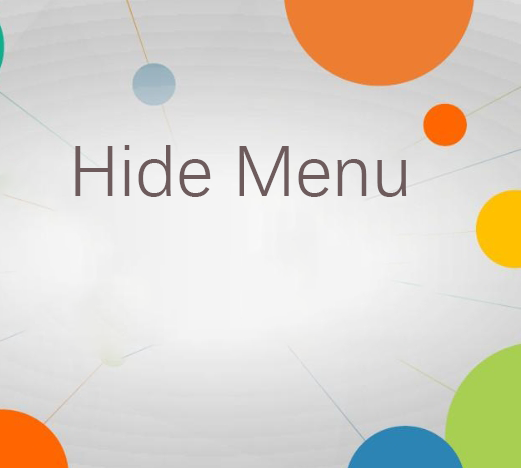
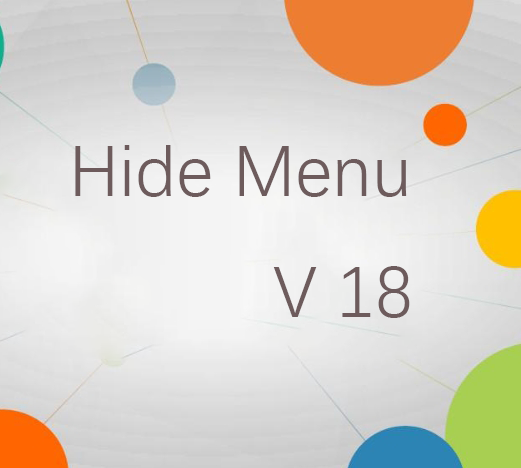
add module

Changed region(s): [[0.6449, 0.5684, 0.7985, 0.688], [0.5221, 0.5684, 0.5835, 0.688], [0.5835, 0.5684, 0.6142, 0.6282]]

diff --git a/user_menus_restriction/static/description/index.html b/user_menus_restriction/static/description/index.html
@@ -34,10 +34,10 @@
                  <p class="mb-0 mt-4"><a href="2.png" target="new"><img src="2.png" style="width:80%" /></a></p>
                 
     
-                 <p class="mb-4 mt-4 h6 mt-4 mb-4 text-dark text-center" style="width:80%;background-color:skyblue; padding:1%;border-radius: 5px;border: 2px solid black;"><b>After the user (demo) logs into the system, they cannot see the hidden menu.</b></p>
+                 <p class="mb-4 mt-4 h6 mt-4 mb-4 text-dark text-center" style="width:80%;background-color:skyblue; padding:1%;border-radius: 5px;border: 2px solid black;"><b>After the user (demo) logs into the system, they cannot see the hidden menu. </b></p>
                  <p class="mb-0"><a href="3.png" target="new"><img src="3.png" style="width:80%" /></a></p>
                 
-                 <p class="mb-4 mt-4 h6 mt-4 text-dark text-center" style="width:80%;background-color:skyblue;padding:1%;border-radius: 5px;border: 2px solid black;"><b>Even if the user knows the URL of the menu, they do not have access to it.</b></p>
+                 <p class="mb-4 mt-4 h6 mt-4 text-dark text-center" style="width:80%;background-color:skyblue;padding:1%;border-radius: 5px;border: 2px solid black;"><b>Even if the user knows the URL of the menu, they do not have access to it. </b></p>
                  <p class="mb-0 mt-4"><a href="4.png" target="new"><img src="4.png" style="width:80%" /></a></p>
                 </ul>
             </div>

diff --git a/user_menus_restriction/controllers/main.py b/user_menus_restriction/controllers/main.py
@@ -7,28 +7,26 @@ from odoo.addons.web.controllers import action
 
 class UrlAction(action.Action):
 
-    @route('/web/action/load', type='json', auth="user")
-    def load(self, action_id, additional_context=None):
-        Actions = request.env['ir.actions.actions']
+    @route('/web/action/load', type='json', auth='user', readonly=True)
+    def load(self, action_id, context=None):
+        result = super().load(action_id=action_id, context=context)
+        access_error = False
         try:
-            action_id = int(action_id)
-        except ValueError:
-            try:
-                action = request.env.ref(action_id)
-                assert action._name.startswith('ir.actions.')
-                action_id = action.id
-            except Exception:
-                action_id = 0
-
-        base_action = Actions.browse([action_id]).sudo().read(['type'])
-        if base_action:
-            user = request.env['res.users'].sudo().browse(request.session.uid)
-            if not user or len(user.hide_menu_ids) == 0:
-                return super().load(action_id, additional_context=additional_context)
-            menu = False
-            menu_ids = request.env['ir.ui.menu'].sudo().with_context({'ir.ui.menu.full_list': True}).search([])
-            for menu in menu_ids:
-                if menu.action and menu.action.id == action_id and menu.id in user.hide_menu_ids.ids:
-                    raise AccessError(_("No permission to access this action"))
-
-        return super().load(action_id, additional_context=additional_context)
+            Actions = request.env['ir.actions.actions']
+            base_action = Actions.browse([result.get('id')])
+            if base_action:
+                user = request.env['res.users'].sudo().browse(request.session.uid)
+                if not user or len(user.hide_ui_menu_ids) == 0 or user.is_admin:
+                    return result
+                menu_recs = request.env['ir.ui.menu'].sudo().with_context({'ir.ui.menu.full_list': True}).search([
+                    ('id', 'in', user.hide_ui_menu_ids.ids),
+                    ('action', '!=', False)
+                ])
+                for menu in menu_recs:
+                    if menu.action.id == base_action.id:
+                        access_error = True
+        except Exception as e:
+            pass
+        if access_error:
+            raise AccessError(_("No permission to access this action"))
+        return result

diff --git a/user_menus_restriction/models/res_user.py b/user_menus_restriction/models/res_user.py
@@ -7,7 +7,7 @@ class HideMenuUser(models.Model):
     _inherit = 'res.users'
 
     is_admin = fields.Boolean(compute='_compute_is_admin', string="Admin")
-    hide_menu_ids = fields.Many2many('ir.ui.menu', 'res_user_hide_menus_rel', string="Hide Menus")
+    hide_ui_menu_ids = fields.Many2many('ir.ui.menu', 'res_user_hide_ui_menus_rel', string="Hide Menus")
 
     def _compute_is_admin(self):
         for rec in self:
@@ -22,10 +22,10 @@ class HideMenuUser(models.Model):
 
     def write(self, vals):
         res = super(HideMenuUser, self).write(vals)
-        for record in self:
-            for menu in record.hide_menu_ids:
+        for record in self.sudo():
+            for menu in record.hide_ui_menu_ids:
                 menu.write({
-                    'restrict_user_ids': [(4, record.id)]
+                    'hide_user_ids': [(4, record.id)]
                 })
         self.clear_caches()
         return res
@@ -34,4 +34,4 @@ class HideMenuUser(models.Model):
 class UserRestrictMenu(models.Model):
     _inherit = 'ir.ui.menu'
 
-    restrict_user_ids = fields.Many2many('res.users', 'res_user_hide_menus_rel', string="User")
+    hide_user_ids = fields.Many2many('res.users', 'res_user_hide_ui_menus_rel', string="Users")

diff --git a/user_menus_restriction/__manifest__.py b/user_menus_restriction/__manifest__.py
@@ -2,7 +2,7 @@
 
 {
     "name": "Hide Menu Restrictions",
-    "version": "16.0.1.0.0",
+    "version": "18.0.1.0.0",
     "summary": "Hide specific menus for specific user. ",
     "description": "Hide menu, prohibit actions",
     "category": "Extra Tools",
